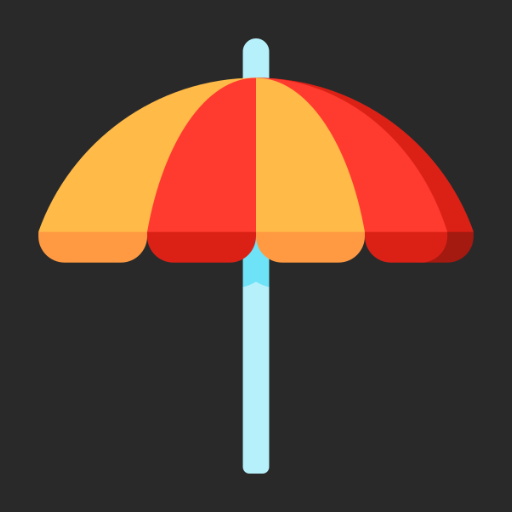
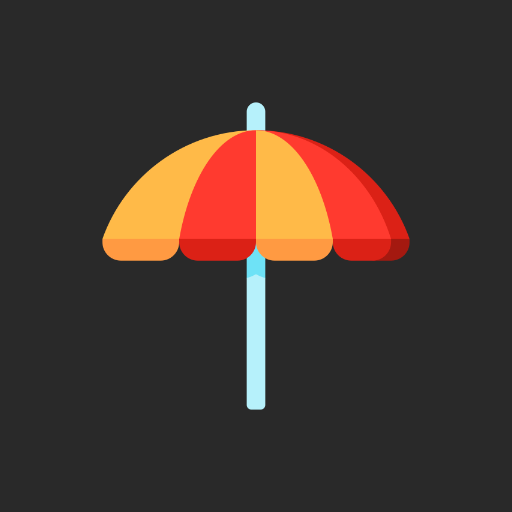
fix21

Changed region(s): [[0.0625, 0.0625, 0.9375, 0.9375]]

diff --git a/sw.js b/sw.js
@@ -1,4 +1,4 @@
-const CACHE_VERSION = 'v11';
+const CACHE_VERSION = 'v12';
 const APP_CACHE = `ug-app-${CACHE_VERSION}`;
 const FONT_CACHE = `ug-fonts-v2`; // Обновляем кэш шрифтов
 